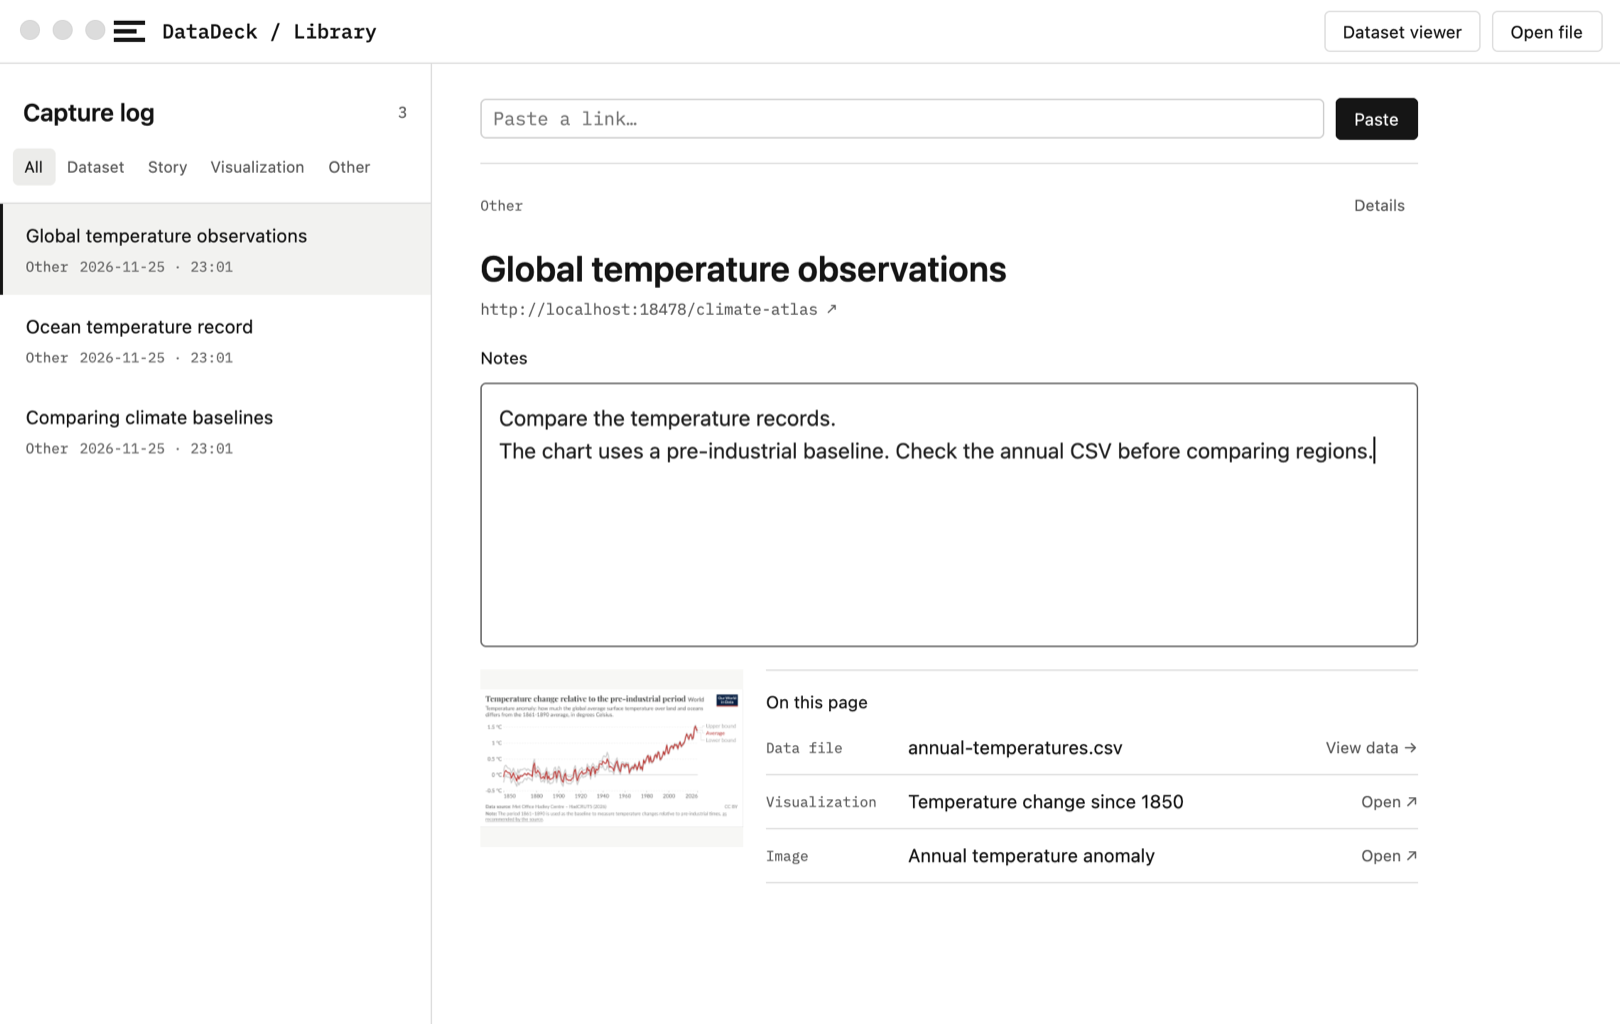
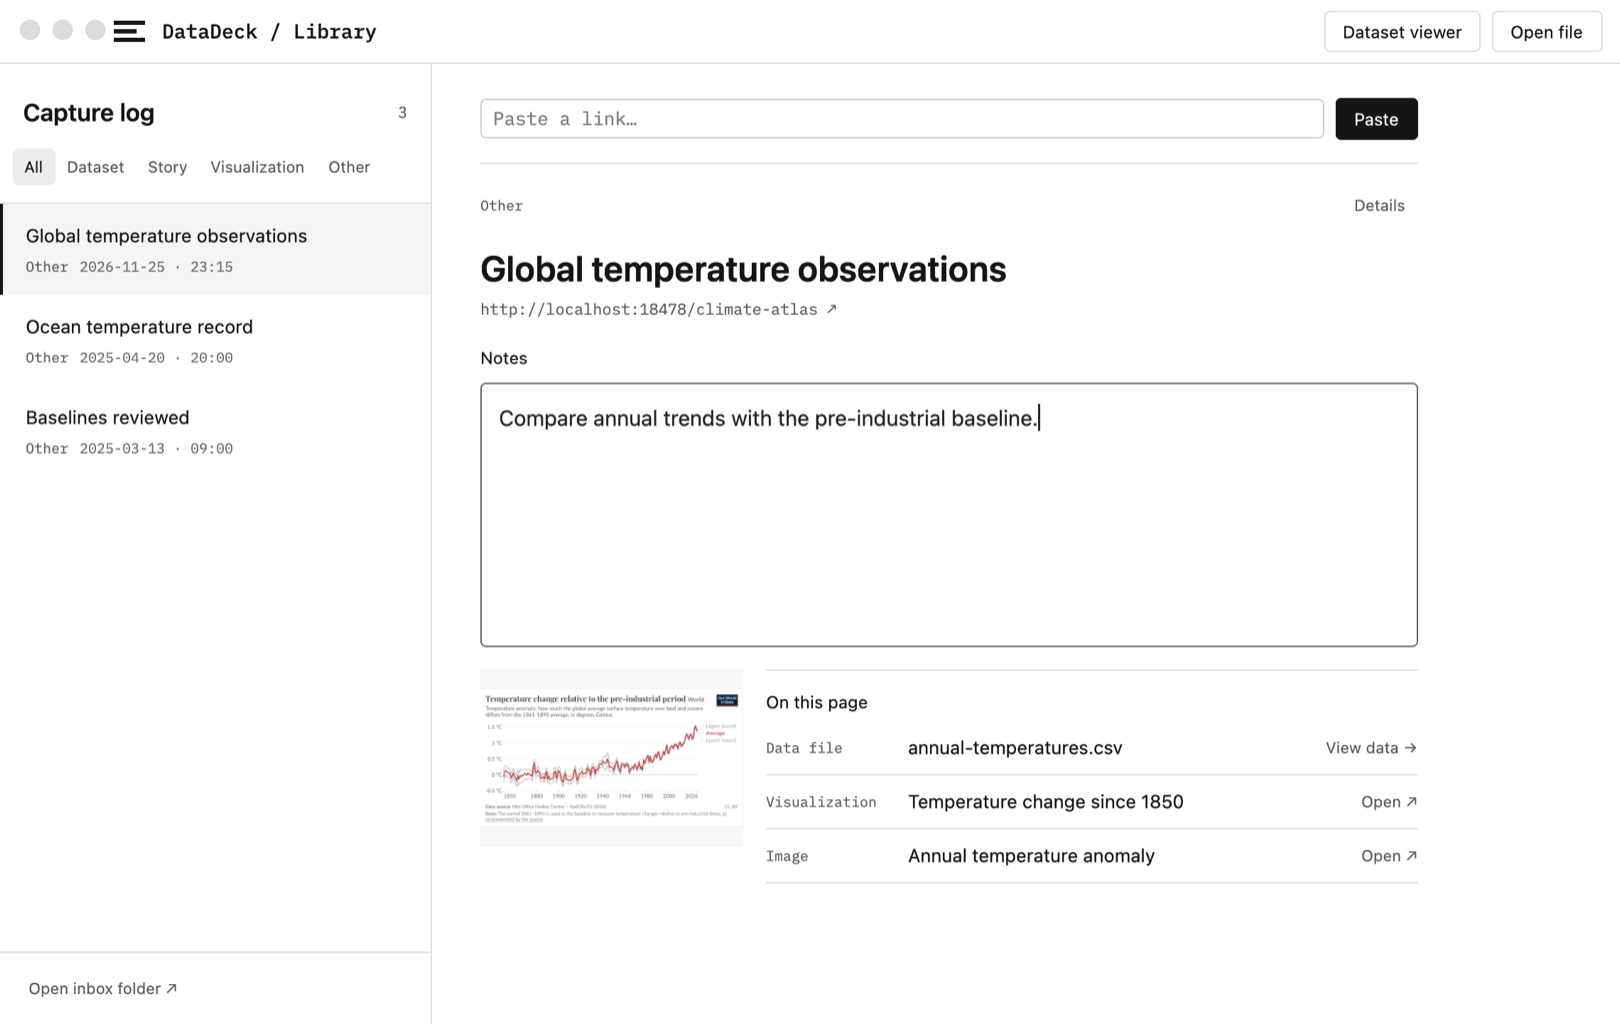
Document the portable inbox and show how to read it from Python

Changed region(s): [[0.3086, 0.4062, 0.8642, 0.4688], [0.0309, 0.4062, 0.1543, 0.4375], [0.0309, 0.9375, 0.0926, 0.9688]]

diff --git a/docs/storage.md b/docs/storage.md
@@ -1,0 +1,78 @@
+# Where DataDeck keeps your data
+
+## The capture inbox
+
+DataDeck keeps one Markdown file per captured web link in `~/.config/datadeck/inbox/`. If `XDG_CONFIG_HOME` points to an absolute directory, the inbox is `$XDG_CONFIG_HOME/datadeck/inbox/`. Run `datadeck --inbox-path` to print the path, or choose **Open inbox folder ↗** in the Library. For a single capture, choose **Details → Open Markdown file ↗**. You can copy the inbox, including its `assets/` directory, to back it up or work with it on another computer.
+
+To add a capture from another tool, create a UTF-8 file such as `climate-notes.md` in that directory:
+
+```markdown
+---
+url: https://ourworldindata.org/co2-emissions
+title: Carbon dioxide emissions
+---
+
+Compare the change in per-capita emissions with the change in total emissions.
+
+Check which countries have a continuous historical series.
+```
+
+The only required frontmatter field is `url`. DataDeck adds metadata as it becomes available. The note starts below the closing `---` and can contain regular Markdown, including headings, links, paragraphs, and code blocks. Edit the body in your favorite text editor and return to the Library to read it. A new capture or a repeat capture determines the position in the log. Editing an existing note keeps its place. For files created by another tool, supply `captured_at` if you want to control their position. Entries without a date follow the dated captures.
+
+## Frontmatter fields
+
+| Field | What other tools can use it for |
+| --- | --- |
+| `url` | Original webpage or dataset address. |
+| `title` | Display title, whether retrieved from the page or edited by you. |
+| `kind` | Category of capture, such as `dataset`, `story` or `visualization`. |
+| `captured_at` | Timestamp of the most recent capture in RFC 3339 format. |
+| `files` | Data resources that can be opened in the viewer. |
+| `images`, `visualizations` | Discovered links with a title and URL. |
+| `thumbnail` | Relative path to a cached image under `assets/`. |
+| `datadeck` | Bookkeeping for app-created files, including stable identification and edit tracking. Other readers can ignore it. |
+
+Custom frontmatter fields, such as `tags` or `project`, survive app edits. Saving through DataDeck can normalize YAML quoting and formatting and remove YAML comments. Store annotations you want to keep in a field or in the Markdown body. An unreadable capture file is left in place while the Library loads the other entries.
+
+## Read captures from another tool
+
+To find a reference across every saved title, link and note, search the folder directly:
+
+```sh
+rg -i 'emissions' "$(datadeck --inbox-path)" --glob '*.md'
+```
+
+This Python example uses PyYAML (`python3 -m pip install PyYAML` in your Python environment). It prints the newest dated captures first, with the title, original URL and first line of notes. The split stops at the end of the frontmatter so a horizontal rule inside a note is preserved.
+
+```python
+from pathlib import Path
+import os
+
+import yaml
+
+config = Path(os.environ.get("XDG_CONFIG_HOME", ""))
+if not config.is_absolute():
+    config = Path.home() / ".config"
+inbox = config / "datadeck" / "inbox"
+entries = []
+for file in inbox.glob("*.md"):
+    text = file.read_text(encoding="utf-8")
+    if not text.startswith("---\n"):
+        continue
+    header, separator, note = text[4:].partition("\n---\n")
+    if separator:
+        meta = yaml.safe_load(header) or {}
+        first_line = next(iter(note.strip().splitlines()), "")
+        entries.append((str(meta.get("captured_at") or ""), meta.get("title") or file.stem, meta.get("url", ""), first_line))
+
+for captured_at, title, url, first_line in sorted(entries, reverse=True):
+    print(captured_at, title, url, first_line, sep="\t")
+```
+
+## Existing installations
+
+An upgrade imports the earlier bookmark library from `~/Library/Application Support/DataDeck/library.sqlite3` on macOS. DataDeck reads a consistent snapshot, leaves the original database in place and records the completed migration. If a Markdown capture already has the same URL and a different note, the Markdown file wins and the differing legacy note is preserved under `inbox/Recovered Notes/`. Continue capturing in the new version after the import. If the old version saved conflicting drafts, its `Recovered Notes/` folder remains alongside that database.
+
+## Opened tables and SQL
+
+CSV, Parquet, Excel, pasted spreadsheet cells, and query results are separate from the capture inbox. An opened file stays in its original location. The viewer holds decoded rows in memory and builds a private temporary SQLite database for SQL queries. Closing the dataset releases that database. **Save last query…** writes a SQL recipe to the location you pick. The command-line runner writes CSV to standard output, which you can redirect to a file.

diff --git a/README.md b/README.md
@@ -32,6 +32,7 @@ The release build places `datadeck` in `target/release/`. Run the commands below
 ```sh
 ./target/release/datadeck                                        # Open your recent Library
 ./target/release/datadeck --library                              # Browse saved web links
+./target/release/datadeck --inbox-path                           # Print the Markdown inbox directory
 ./target/release/datadeck examples/field-survey.csv              # Open one file
 ./target/release/datadeck examples                               # Browse a folder or checkout
 ./target/release/datadeck /path/to/datapackage.yml               # Open a package
@@ -52,11 +53,11 @@ The large notes area is ready while the spinner is running. Type, paste several 
 
 In the background DataDeck reads the page title, looks for preview images, chart links and embeds, and finds linked CSV, TSV, Excel and Parquet files. Choose a discovered data file to open it in the viewer. Images, visualizations and **Open page** take you to the original in your browser. The preview uses the HTML the site returns. A site that generates links only after running JavaScript may supply fewer results.
 
-Reopen DataDeck to see the newest captures first. Capturing a URL again moves that entry to the top and keeps its notes. Reading or editing an older note leaves its place in the log intact. The URL, notes, discovered links and cached thumbnail live in `~/Library/Application Support/DataDeck/library.sqlite3` on macOS. Finder internet shortcuts (`.webloc`) work too.
+Reopen DataDeck to see the newest captures first. Capturing a URL again moves that entry to the top and keeps its notes. Reading or editing an older note leaves its place in the log intact. Each capture is a Markdown file under `~/.config/datadeck/inbox/`, or `$XDG_CONFIG_HOME/datadeck/inbox/` when you set an absolute XDG configuration directory. The YAML frontmatter holds the link and page metadata, and the body contains your note. Cached thumbnails live in `assets/`. [Read the file format, migration details, and parsing example](docs/storage.md). Finder internet shortcuts (`.webloc`) work too.
 
 ![The capture log with notes, a page preview and discovered links](docs/images/bookmark-library.png)
 
-[Watch the narrated capture walkthrough](docs/videos/library.mp4).
+The walkthrough uses a local example page with a temperature chart from Our World in Data. [Watch the narrated capture walkthrough](docs/videos/library.mp4) · [Original chart and credits](https://ourworldindata.org/grapher/temperature-anomaly).
 
 ## Open and inspect
 

diff --git a/DESIGN.md b/DESIGN.md
@@ -25,3 +25,5 @@ Use SQL projection for choosing columns, functions such as trim for cleaning tex
 ## Bookmark Library
 
 Pasting a link commits it to the local capture log. A sentence pasted with the URL becomes the note. The reader can type or dictate immediately while workers retrieve the title, thumbnail and linked resources. Metadata and notes have independent writes so a slow preview cannot replace a paragraph. The log orders entries by capture time, including repeat captures. Selecting an entry or editing its note preserves the order. Links to data open in the viewer, and page, chart and image links open in the browser. Switching surfaces retains the open table and query.
+
+Each capture is a Markdown file. The Library reads the same YAML frontmatter and note body that the user sees in a text editor. Thumbnails use relative paths so a copied inbox stays portable. Only the visible Library monitors the inbox for external changes.

diff --git a/changelog/2026-11-25-markdown-inbox.md b/changelog/2026-11-25-markdown-inbox.md
@@ -1,0 +1,7 @@
+---
+date: 2026-11-25
+title: Keep captured pages as editable Markdown
+promote: false
+---
+
+Each saved web link now has its own Markdown file in `~/.config/datadeck/inbox/`. The note is the body, and the YAML frontmatter carries the original URL, title, capture time and discovered resources. Open the inbox directly from the Library, edit a note with another tool, and see the change when you return. Existing SQLite captures are imported on upgrade. [Explore the storage format](https://github.com/datasets/datadeck/blob/main/docs/storage.md).
